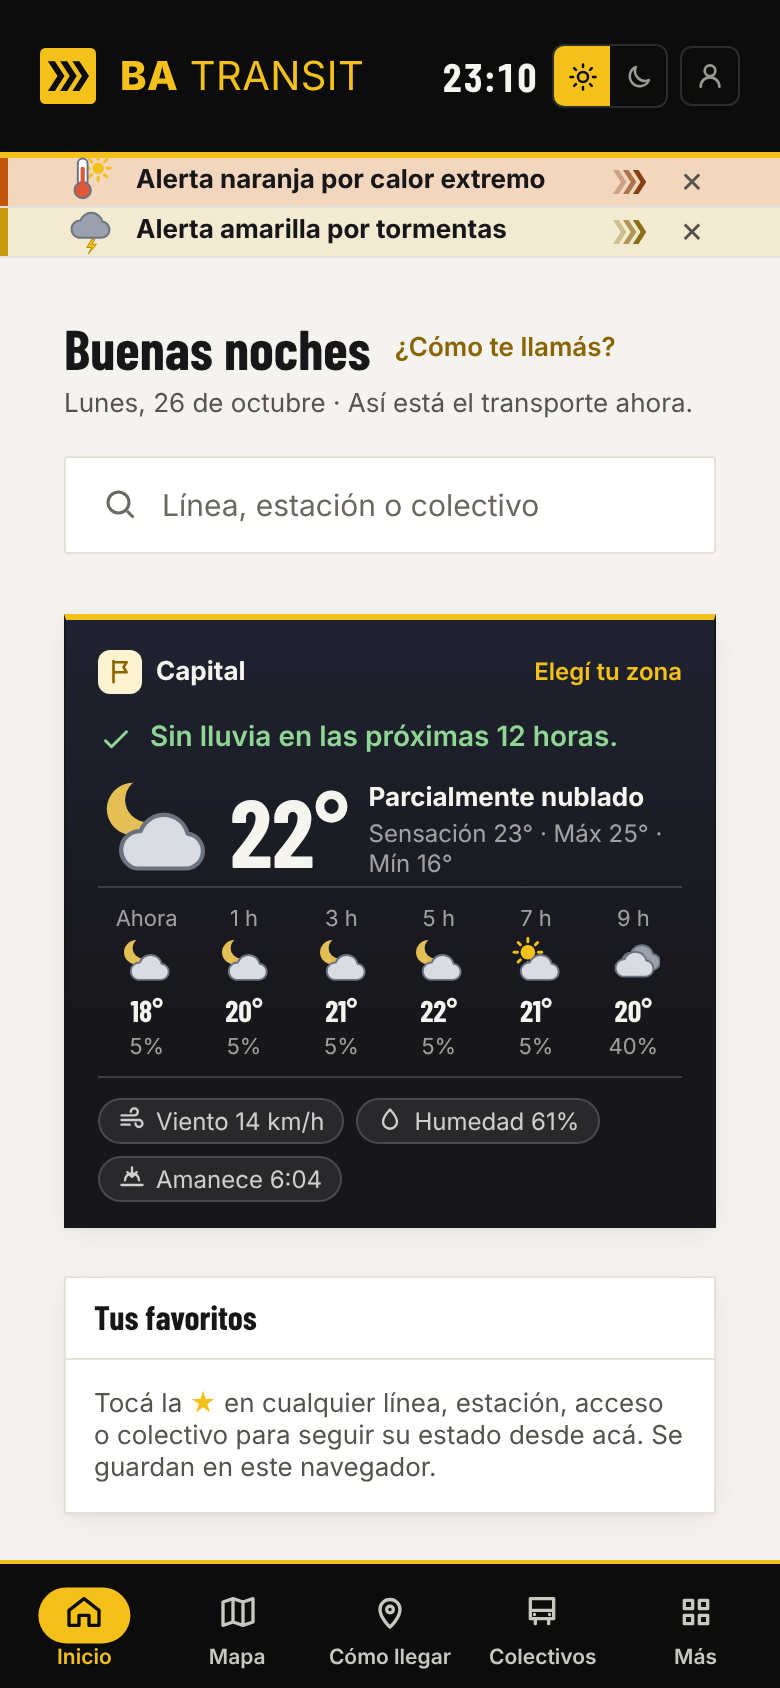
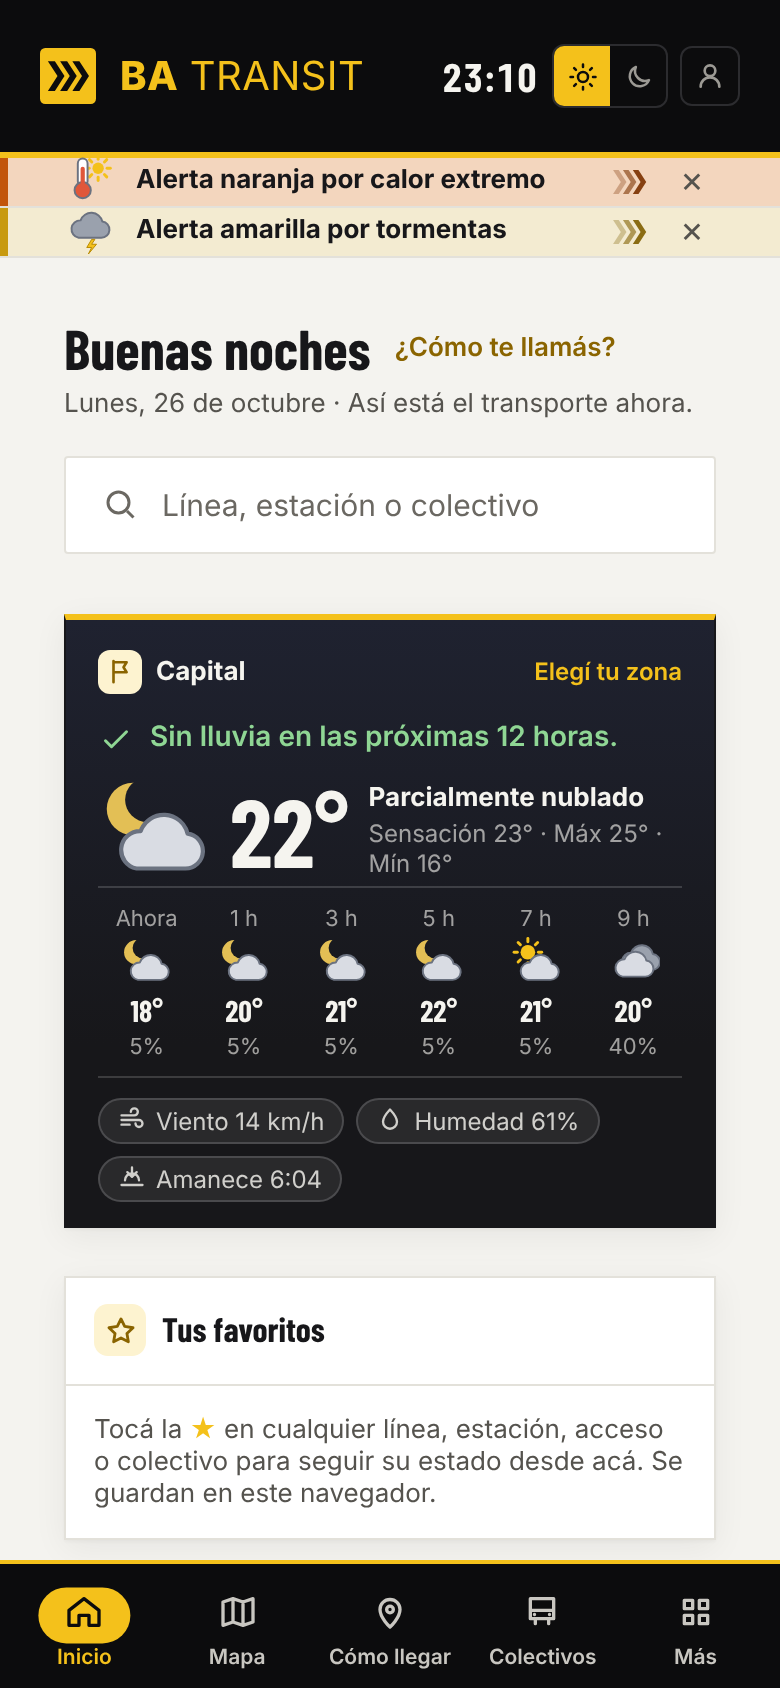
ba-transit v30.6: titulos con icono en los paneles del inicio, cartel propio con el nombre y campana animada
Tus favoritos, Estado de la red, Alertas destacadas y Tarifas vigentes llevan su icono en un cuadro, como las tarjetas de cada modo, con el titulo mas grande y en un solo renglon tambien en el celular. En Estado de la red, al pasar el mouse por el icono de un tren o el cartel de una ruta aparece su nombre en un cartel con el estilo de las etiquetas del mapa en lugar del cartel del navegador. La campana de Avisarme si hay problemas se balancea al pasar el mouse y suena al hacer clic antes de abrir los avisos, salvo que se haya pedido menos movimiento. Las capturas del README se actualizaron.

Changed region(s): [[0.0923, 0.7701, 0.8923, 0.9242]]

diff --git a/frontend/src/components/NotificationsLink.jsx b/frontend/src/components/NotificationsLink.jsx
@@ -1,10 +1,17 @@
 import { useEffect, useState } from 'react'
-import { Link } from 'react-router-dom'
+import { Link, useNavigate } from 'react-router-dom'
 import { useFavoriteList } from '../hooks/useFavoriteList.js'
 import { currentSubscription, pushSupport } from '../utils/push.js'
 import './NotificationsLink.css'
 
 const BELL = 'M6 16V11a6 6 0 1 1 12 0v5l2 2H4zM10 20a2 2 0 0 0 4 0'
+
+/** Cuanto suena la campana al hacer clic antes de abrir los avisos (como en el CSS). */
+const RING_MS = 450
+
+function prefersLessMotion() {
+  return globalThis.matchMedia?.('(prefers-reduced-motion: reduce)').matches ?? false
+}
 
 /**
  * Invita a activar los avisos de los favoritos (o dice que estan activos).
@@ -17,16 +24,35 @@ export default function NotificationsLink({ compact = false }) {
     useFavoriteList('accesos').ids.length +
     useFavoriteList('colectivos').ids.length
   const [active, setActive] = useState(false)
+  const [ringing, setRinging] = useState(false)
+  const navigate = useNavigate()
   useEffect(() => {
     currentSubscription()
       .then((s) => setActive(Boolean(s)))
       .catch(() => {})
   }, [])
+  useEffect(() => {
+    if (!ringing) return undefined
+    const timer = setTimeout(() => navigate('/notificaciones'), RING_MS)
+    return () => clearTimeout(timer)
+  }, [ringing, navigate])
   if (count === 0 || pushSupport() === 'no') return null
+
+  // Al hacer clic la campana suena y despues se abren los avisos. Con
+  // Ctrl, Cmd o la rueda (abrir en otra pestaña) o con menos movimiento
+  // pedido, el enlace funciona como siempre.
+  function ring(event) {
+    if (event.button !== 0 || event.metaKey || event.ctrlKey || event.shiftKey || event.altKey) return
+    if (prefersLessMotion()) return
+    event.preventDefault()
+    setRinging(true)
+  }
+
   return (
     <Link
       to="/notificaciones"
-      className={`notif-link${active ? ' active' : ''}${compact ? ' notif-link-compact' : ''}`}
+      onClick={ring}
+      className={`notif-link${active ? ' active' : ''}${compact ? ' notif-link-compact' : ''}${ringing ? ' ringing' : ''}`}
     >
       <svg viewBox="0 0 24 24" aria-hidden="true" focusable="false">
         <path d={BELL} />

diff --git a/frontend/src/components/ModeGrid.css b/frontend/src/components/ModeGrid.css
@@ -118,7 +118,57 @@
 }
 
 .mode-group-item {
+  position: relative;
   display: inline-flex;
+}
+
+/*
+ * Cartel con el nombre al pasar el mouse, con el estilo de las etiquetas
+ * del mapa: arriba del icono, con una flechita.
+ */
+.mode-group-item[data-tip]::after,
+.mode-group-item[data-tip]::before {
+  position: absolute;
+  left: 50%;
+  z-index: 5;
+  opacity: 0;
+  pointer-events: none;
+  transition: opacity 0.12s ease;
+}
+
+.mode-group-item[data-tip]::after {
+  content: attr(data-tip);
+  bottom: calc(100% + 8px);
+  translate: -50% 0;
+  padding: 5px 9px;
+  border: 1px solid var(--line);
+  border-radius: 6px;
+  background: var(--surface-raised);
+  color: var(--text);
+  box-shadow: 0 4px 14px rgba(23, 23, 26, 0.14);
+  font-family: 'Inter', sans-serif;
+  font-size: 12px;
+  font-weight: 500;
+  line-height: 1.2;
+  white-space: nowrap;
+}
+
+.mode-group-item[data-tip]::before {
+  content: '';
+  bottom: calc(100% + 3px);
+  width: 8px;
+  height: 8px;
+  translate: -50% 0;
+  rotate: 45deg;
+  border-right: 1px solid var(--line);
+  border-bottom: 1px solid var(--line);
+  background: var(--surface-raised);
+  z-index: 6;
+}
+
+.mode-group-item[data-tip]:hover::after,
+.mode-group-item[data-tip]:hover::before {
+  opacity: 1;
 }
 
 /* El cartel de la ruta, como en Accesos, en chico. */

diff --git a/frontend/src/components/ModeGrid.jsx b/frontend/src/components/ModeGrid.jsx
@@ -13,14 +13,15 @@ import StatusPill from './StatusPill.jsx'
 /**
  * Lo afectado en un estado, con su icono: la insignia de cada linea (la
  * letra del subte, el tren en el color de su linea) o el cartel de la ruta
- * de cada autopista. El nombre queda al pasar el mouse y para los lectores
+ * de cada autopista. El nombre aparece en un cartel al pasar el mouse
+ * (con el estilo del sitio, no el del navegador) y queda para los lectores
  * de pantalla. items: [{ key, icon, name }].
  */
 function GroupItems({ items }) {
   return (
     <span className="mode-group-lines">
       {items.map((item) => (
-        <span key={item.key} className="mode-group-item" title={item.name}>
+        <span key={item.key} className="mode-group-item" data-tip={item.name}>
           {item.icon}
           <span className="visually-hidden">{item.name}</span>
         </span>
@@ -31,7 +32,7 @@ function GroupItems({ items }) {
 
 /** Las lineas de un estado, con su insignia. */
 function GroupLines({ lines }) {
-  const items = lines.map((line) => ({ key: line.id, icon: <LineBadge line={line} size="sm" />, name: line.name }))
+  const items = lines.map((line) => ({ key: line.id, icon: <LineBadge line={line} size="sm" title={null} />, name: line.name }))
   return <GroupItems items={items} />
 }
 

diff --git a/frontend/src/pages/DashboardPage.jsx b/frontend/src/pages/DashboardPage.jsx
@@ -3,6 +3,7 @@ import Greeting from '../components/Greeting.jsx'
 import SearchBar from '../components/SearchBar.jsx'
 import DayWeather from '../components/DayWeather.jsx'
 import ModeGrid from '../components/ModeGrid.jsx'
+import ModeIcon from '../components/ModeIcon.jsx'
 import FavoritesPanel from '../components/FavoritesPanel.jsx'
 import AccountInvite from '../components/AccountInvite.jsx'
 import AlertsPanel from '../components/AlertsPanel.jsx'
@@ -57,7 +58,10 @@ export default function DashboardPage() {
       {/* Un panel con el titulo adentro, como "Tus favoritos" y "Alertas destacadas". */}
       <section className="network-panel" aria-labelledby="network-title">
         <header className="network-head">
-          <h2 id="network-title">Estado de la red</h2>
+          <h2 id="network-title" className="panel-heading">
+            <ModeIcon mode="RED" size="title" />
+            Estado de la red
+          </h2>
           {alertsState.updatedAt && (
             <span className="updated-at" title={alertsState.updatedAt.toLocaleString('es-AR')}>
               {/* now se usa para que el texto se recalcule cada 30 segundos */}

diff --git a/frontend/src/components/NotificationsLink.css b/frontend/src/components/NotificationsLink.css
@@ -37,3 +37,59 @@
   fill: var(--yellow);
   stroke: var(--yellow-deep);
 }
+
+/*
+ * La campana: al pasar el mouse (o llegar con el teclado) se balancea una
+ * vez; al hacer clic suena fuerte antes de abrir los avisos. Gira desde
+ * arriba, como una campana colgada. Sin animacion si se pidio menos
+ * movimiento.
+ */
+@media (prefers-reduced-motion: no-preference) {
+  .notif-link svg {
+    transform-origin: 50% 12%;
+  }
+
+  .notif-link:hover svg,
+  .notif-link:focus-visible svg {
+    animation: bell-swing 0.7s ease-in-out;
+  }
+
+  .notif-link.ringing svg {
+    animation: bell-ring 0.45s ease-in-out;
+  }
+}
+
+@keyframes bell-swing {
+  20% {
+    rotate: -14deg;
+  }
+  45% {
+    rotate: 10deg;
+  }
+  70% {
+    rotate: -5deg;
+  }
+}
+
+@keyframes bell-ring {
+  10% {
+    rotate: 18deg;
+    scale: 1.25;
+  }
+  25% {
+    rotate: -18deg;
+  }
+  40% {
+    rotate: 14deg;
+  }
+  55% {
+    rotate: -10deg;
+    scale: 1.2;
+  }
+  70% {
+    rotate: 6deg;
+  }
+  85% {
+    rotate: -3deg;
+  }
+}

diff --git a/frontend/src/components/LineBadge.jsx b/frontend/src/components/LineBadge.jsx
@@ -16,14 +16,15 @@ function TrainIcon() {
 /**
  * Badge circular de una linea con su color oficial. Subte y premetro
  * muestran su letra; los trenes, un icono de tren (sus codigos, como
- * "SAN_MARTIN", no entran en un circulo).
+ * "SAN_MARTIN", no entran en un circulo). title: el texto al pasar el
+ * mouse (null para no poner ninguno, si ya hay un cartel propio).
  */
-export default function LineBadge({ line, size = 'md' }) {
+export default function LineBadge({ line, size = 'md', title = line.name }) {
   const isTrain = line.mode === 'TREN'
   const style = { background: line.colorHex, color: readableTextColor(line.colorHex) }
 
   return (
-    <span className={`line-badge line-badge-${size}`} style={style} title={line.name}>
+    <span className={`line-badge line-badge-${size}`} style={style} title={title ?? undefined}>
       {isTrain ? <TrainIcon /> : line.code}
     </span>
   )

diff --git a/frontend/src/components/AlertsPanel.jsx b/frontend/src/components/AlertsPanel.jsx
@@ -1,6 +1,7 @@
 import { useMemo, useState } from 'react'
 import { Link } from 'react-router-dom'
 import Chevrons from './Chevrons.jsx'
+import ModeIcon from './ModeIcon.jsx'
 import './AlertsPanel.css'
 import { formatRelativeTime } from '../utils/format.js'
 import { ALERT_TYPE_LABELS } from '../constants.js'
@@ -32,7 +33,10 @@ export default function AlertsPanel({ alerts, lines }) {
   return (
     <div className="panel">
       <div className="panel-title alerts-head">
-        <span>Alertas destacadas</span>
+        <span className="panel-heading">
+          <ModeIcon mode="ALERTAS" size="title" />
+          Alertas destacadas
+        </span>
         {showFilters ? (
           <div className="alert-filters" role="group" aria-label="Filtrar alertas">
             {ALERT_FILTERS.map((f) => (

diff --git a/frontend/src/components/FaresPanel.jsx b/frontend/src/components/FaresPanel.jsx
@@ -1,5 +1,6 @@
 import { Link } from 'react-router-dom'
 import Chevrons from './Chevrons.jsx'
+import ModeIcon from './ModeIcon.jsx'
 import './FaresPanel.css'
 import { formatCurrency, formatLongDate } from '../utils/format.js'
 import { fareSummary } from '../utils/fares.js'
@@ -15,7 +16,12 @@ export default function FaresPanel({ fares, showMore = true }) {
 
   return (
     <div className="panel side-panel">
-      <div className="panel-title">Tarifas vigentes</div>
+      <div className="panel-title">
+        <span className="panel-heading">
+          <ModeIcon mode="SUBE" size="title" />
+          Tarifas vigentes
+        </span>
+      </div>
 
       {summary.length === 0 && <div className="loading-text">Todavía no hay tarifas cargadas.</div>}
 

diff --git a/frontend/src/components/ModeIcon.jsx b/frontend/src/components/ModeIcon.jsx
@@ -17,6 +17,10 @@ const PATHS = {
   CLIMA: 'M7 18.5h10a4 4 0 0 0 .4-7.98A6 6 0 0 0 5.9 9.6 4.5 4.5 0 0 0 7 18.5z',
   NOTICIAS: 'M5 4h11a1 1 0 0 1 1 1v14a1 1 0 0 0 1 1H6a2 2 0 0 1-2-2V5a1 1 0 0 1 1-1zm12 5h2a1 1 0 0 1 1 1v8a2 2 0 0 1-2 2M8 8h5M8 12h5M8 16h3',
   CUENTA: 'M12 12a4 4 0 1 0 0-8 4 4 0 0 0 0 8zm-7 8a7 7 0 0 1 14 0',
+  // Encabezados de los paneles del inicio.
+  FAVORITOS: 'M12 3.5l2.6 5.3 5.9.9-4.3 4.1 1 5.8L12 16.9l-5.2 2.7 1-5.8-4.3-4.1 5.9-.9z',
+  RED: 'M3 12h4l3-7 4 14 3-7h4',
+  ALERTAS: 'M12 4 2.5 20h19zM12 10v4m0 3h.01',
   ECOBICI: 'M5.5 18a3.5 3.5 0 1 0 0-7 3.5 3.5 0 0 0 0 7zm13 0a3.5 3.5 0 1 0 0-7 3.5 3.5 0 0 0 0 7zM5.5 14.5 9 8h6l3.5 6.5M9 8l3 6.5h-1M14 5h2.5',
 }
 

diff --git a/frontend/src/components/FavoritesPanel.jsx b/frontend/src/components/FavoritesPanel.jsx
@@ -1,3 +1,4 @@
+import ModeIcon from './ModeIcon.jsx'
 import MyBuses from './MyBuses.jsx'
 import MyLines from './MyLines.jsx'
 import NotificationsLink from './NotificationsLink.jsx'
@@ -22,7 +23,10 @@ export default function FavoritesPanel({ lines, alerts }) {
   return (
     <section className="fav-panel" aria-labelledby="fav-title">
       <header className="fav-head">
-        <h2 id="fav-title">Tus favoritos</h2>
+        <h2 id="fav-title" className="panel-heading">
+          <ModeIcon mode="FAVORITOS" size="title" />
+          Tus favoritos
+        </h2>
         {ready && <NotificationsLink compact />}
       </header>
       {total === 0 ? (

diff --git a/frontend/src/pages/DashboardPage.css b/frontend/src/pages/DashboardPage.css
@@ -48,19 +48,20 @@
 
 .network-head {
   display: flex;
-  align-items: baseline;
+  align-items: center;
   justify-content: space-between;
   gap: 12px;
+  min-height: 54px;
   padding: 10px 14px;
   border-bottom: 1px solid var(--line);
 }
 
-.network-head h2 {
-  margin: 0;
-  font-family: 'Barlow Condensed', sans-serif;
-  font-size: 17px;
-  font-weight: 700;
-  color: var(--text);
+/* Celular: lo de la derecha del titulo, chico y en dos renglones si hace falta. */
+@media (max-width: 520px) {
+  .network-head .updated-at {
+    font-size: 11px;
+    text-align: right;
+  }
 }
 
 .network-stale {

diff --git a/frontend/src/components/FavoritesPanel.css b/frontend/src/components/FavoritesPanel.css
@@ -12,16 +12,9 @@
   align-items: center;
   justify-content: space-between;
   gap: 12px;
+  min-height: 54px;
   padding: 10px 14px;
   border-bottom: 1px solid var(--line);
-}
-
-.fav-head h2 {
-  margin: 0;
-  font-family: 'Barlow Condensed', sans-serif;
-  font-size: 17px;
-  font-weight: 700;
-  color: var(--text);
 }
 
 .fav-empty {
@@ -109,6 +102,11 @@
 @media (max-width: 600px) {
   .fav-kind {
     display: none;
+  }
+
+  .notif-link.notif-link-compact {
+    font-size: 11px;
+    text-align: right;
   }
 
   .fav-list .my-line-trains {
